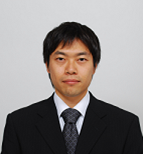
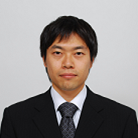
fixed photos and auto-height to show contents appropriately in team section

Changed region(s): [[0.0, 0.087, 1.0, 1.0]]

diff --git a/js/main.js b/js/main.js
@@ -49,7 +49,7 @@ function main() {
   	      navigation : false, // Show next and prev buttons
   	      slideSpeed : 300,
   	      paginationSpeed : 400,
-  	      autoHeight : true,
+  	      autoHeight : false,
   	      itemsCustom : [
 				        [0, 1],
 				        [450, 2],

diff --git a/css/owl.carousel.css b/css/owl.carousel.css
@@ -67,5 +67,6 @@
   -webkit-transform: translate3d(0,0,0);
   -moz-transform: translate3d(0,0,0);
   -ms-transform: translate3d(0,0,0);
+	height: 390px;
 }
 
